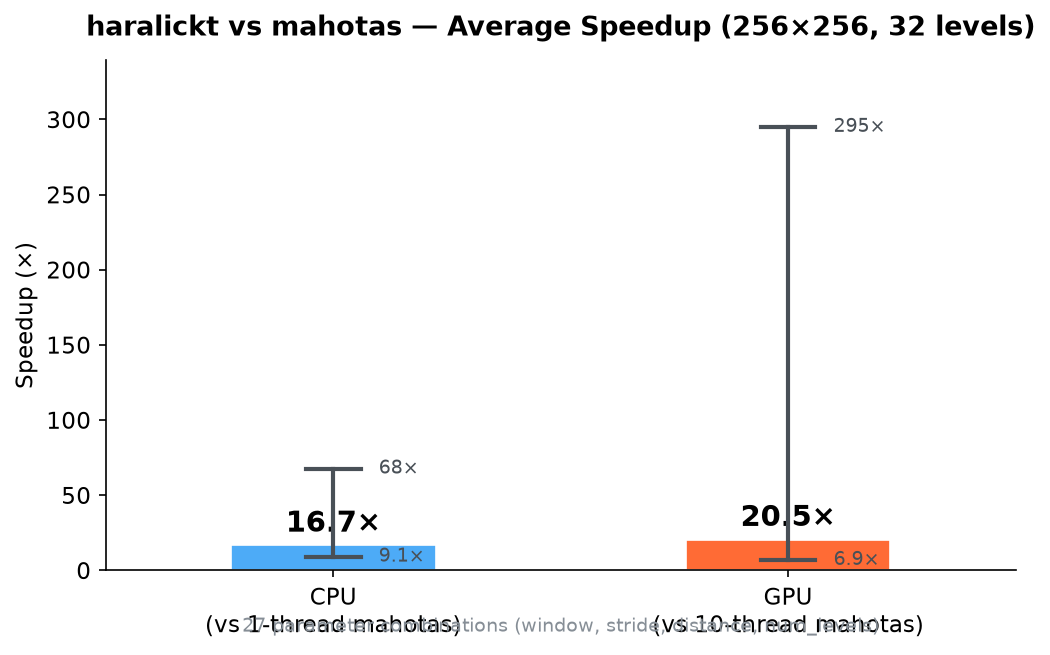
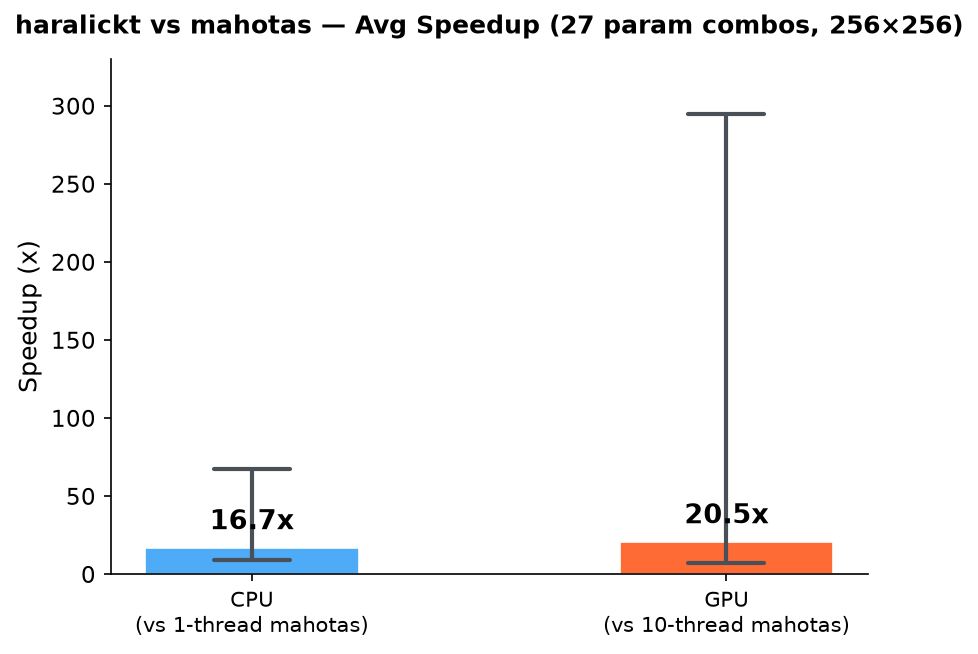
Readme update - new stats were added

Changed region(s): [[0.0, 0.0917, 0.9509, 0.9786], [0.0, 0.0, 0.9816, 0.0612]]

diff --git a/examples/benchmark_by_size.py b/examples/benchmark_by_size.py
@@ -1,0 +1,144 @@
+"""Benchmark haralickt vs mahotas across different image sizes.
+
+Uses middle-range parameters (window=16, stride=4, distance=1)
+where speedup is close to the average.
+
+Image sizes: 256x256, 512x512, 1024x1024, 2048x2048
+
+Usage:
+    python examples/benchmark_by_size.py
+"""
+
+from __future__ import annotations
+
+import time
+
+import numpy as np
+import torch
+
+from haralickt import haralick
+
+# ─── Parameters (middle range → average speedup) ────────────────────────────
+WINDOW = 16
+STRIDE = 4
+DISTANCE = 1
+NUM_LEVELS = 32
+SIZES = [256, 512, 1024, 2048]
+
+
+def _extract_features(image: np.ndarray, distance: int) -> np.ndarray:
+    """Compute 13 Haralick features for a single window via mahotas."""
+    import mahotas
+    try:
+        textures = mahotas.features.haralick(image, ignore_zeros=True, distance=distance)
+    except ValueError:
+        textures = np.zeros((4, 13)) + np.nan
+    return textures.mean(axis=0)
+
+
+def mahotas_haralick(
+    gray_img: np.ndarray,
+    window_size: int,
+    stride: int,
+    distance: int,
+    threads: int = 10,
+) -> np.ndarray:
+    """Per-window computation via mahotas + multiprocessing."""
+    from multiprocessing import Pool
+
+    pool = Pool(threads)
+    har_list: list[np.ndarray] = []
+
+    for r in range(0, gray_img.shape[0] - window_size + 1, stride):
+        sub_imgs = [
+            gray_img[r: r + window_size, c: c + window_size]
+            for c in range(0, gray_img.shape[1] - window_size + 1, stride)
+        ]
+        har_row = pool.starmap(_extract_features, [(img, distance) for img in sub_imgs])
+        har_list.append(np.array(har_row))
+
+    pool.close()
+    pool.join()
+    return np.array(har_list).astype("float32")
+
+
+def benchmark_size(size: int, device: str, mahotas_threads: int) -> dict:
+    """Run benchmark for one image size."""
+    np.random.seed(42)
+    np_img = np.random.randint(0, NUM_LEVELS, size=(size, size), dtype=np.uint8)
+    torch_img = torch.from_numpy(np_img)
+
+    # Warmup
+    _ = haralick(torch_img, num_levels=NUM_LEVELS, window_size=WINDOW,
+                 stride=STRIDE, device=device)
+
+    # Time haralickt
+    t0 = time.perf_counter()
+    result = haralick(torch_img, num_levels=NUM_LEVELS, window_size=WINDOW,
+                      stride=STRIDE, device=device)
+    t_haralickt = time.perf_counter() - t0
+
+    # Time mahotas
+    t0 = time.perf_counter()
+    result_m = mahotas_haralick(np_img, WINDOW, STRIDE, DISTANCE, mahotas_threads)
+    t_mahotas = time.perf_counter() - t0
+
+    speedup = t_mahotas / t_haralickt if t_haralickt > 0 else float("inf")
+
+    return {
+        "size": size,
+        "t_mahotas": t_mahotas,
+        "t_haralickt": t_haralickt,
+        "speedup": speedup,
+    }
+
+
+def main():
+    print(f"Parameters: window={WINDOW}, stride={STRIDE}, distance={DISTANCE}, levels={NUM_LEVELS}")
+    print(f"Image sizes: {SIZES}")
+    print()
+
+    # ─── CPU scenario ────────────────────────────────────────────────────────
+    print(f"{'=' * 70}")
+    print(f"  CPU: PyTorch CPU vs mahotas (1 thread)")
+    print(f"{'=' * 70}")
+    print(f"  {'Size':>10} | {'mahotas':>10} | {'haralickt':>10} | {'Speedup':>8}")
+    print(f"  {'-' * 50}")
+
+    cpu_results = []
+    for size in SIZES:
+        r = benchmark_size(size, device="cpu", mahotas_threads=1)
+        cpu_results.append(r)
+        print(f"  {size:>4}x{size:<4} | {r['t_mahotas']:>8.3f}s | {r['t_haralickt']:>8.3f}s | {r['speedup']:>6.1f}x")
+
+    # ─── GPU scenario ────────────────────────────────────────────────────────
+    gpu_results = []
+    if torch.cuda.is_available():
+        print(f"\n{'=' * 70}")
+        print(f"  GPU: PyTorch CUDA vs mahotas (10 threads)")
+        print(f"{'=' * 70}")
+        print(f"  {'Size':>10} | {'mahotas':>10} | {'haralickt':>10} | {'Speedup':>8}")
+        print(f"  {'-' * 50}")
+
+        for size in SIZES:
+            r = benchmark_size(size, device="cuda", mahotas_threads=10)
+            gpu_results.append(r)
+            print(f"  {size:>4}x{size:<4} | {r['t_mahotas']:>8.3f}s | {r['t_haralickt']:>8.3f}s | {r['speedup']:>6.1f}x")
+    else:
+        print("\n[!] CUDA not available — GPU scenario skipped.")
+
+    # ─── Summary ─────────────────────────────────────────────────────────────
+    print(f"\n{'=' * 70}")
+    print(f"  SUMMARY")
+    print(f"{'=' * 70}")
+    if cpu_results:
+        avg_sp = np.mean([r["speedup"] for r in cpu_results])
+        print(f"  CPU avg speedup: {avg_sp:.1f}x  (range: {min(r['speedup'] for r in cpu_results):.1f}x – {max(r['speedup'] for r in cpu_results):.1f}x)")
+    if gpu_results:
+        avg_sp = np.mean([r["speedup"] for r in gpu_results])
+        print(f"  GPU avg speedup: {avg_sp:.1f}x  (range: {min(r['speedup'] for r in gpu_results):.1f}x – {max(r['speedup'] for r in gpu_results):.1f}x)")
+    print(f"{'=' * 70}")
+
+
+if __name__ == "__main__":
+    main()

diff --git a/README.md b/README.md
@@ -167,11 +167,30 @@ Speedup range across combinations:
 | CPU vs CPU (1 thr) | 9.1x | 67.7x |
 | GPU vs CPU (10 thr) | 6.9x | 295x |
 
-![CPU Speedup](examples/charts/cpu_speedup.png)
+![CPU Speedup by Parameters](examples/charts/cpu_speedup.png)
 
-![GPU Speedup](examples/charts/gpu_speedup.png)
+![GPU Speedup by Parameters](examples/charts/gpu_speedup.png)
 
-![Combined](examples/charts/combined.png)
+![Combined by Parameters](examples/charts/combined.png)
+
+### Speed by Image Size
+
+Parameters: `window=16, stride=4, distance=1, levels=32`
+
+| Size | mahotas (CPU, 1 thr) | haralickt (CPU) | Speedup | mahotas (CPU, 10 thr) | haralickt (GPU) | Speedup |
+|------|:---:|:---:|:---:|:---:|:---:|:---:|
+| 256×256 | 2.34s | 0.11s | **22.3×** | 7.13s | 0.02s | **464×** |
+| 512×512 | 5.44s | 0.43s | **12.6×** | 3.22s | 0.05s | **61×** |
+| 1024×1024 | 19.98s | 1.88s | **10.6×** | 6.54s | 0.23s | **29×** |
+| 2048×2048 | 70.13s | 6.68s | **10.5×** | 15.25s | 0.72s | **21×** |
+
+> **Note:** GPU speedup for 256×256 is inflated by mahotas multiprocessing overhead (Pool spawn cost dominates for small images). For larger images, GPU advantage stabilizes at **~20–30×**.
+
+![CPU Speedup by Image Size](examples/charts/cpu_speedup_size.png)
+
+![GPU Speedup by Image Size](examples/charts/gpu_speedup_size.png)
+
+![Combined by Image Size](examples/charts/combined_size.png)
 
 > **Note:** CPU speedup is achieved through PyTorch multi-threading (OpenMP/MKL). When mahotas is also run with 10–12 threads, the gap is largely neutralized. The real advantage of `haralickt` is **GPU acceleration**: on CUDA, `haralickt` is **~20x faster** than multi-threaded mahotas (10 threads).
 
